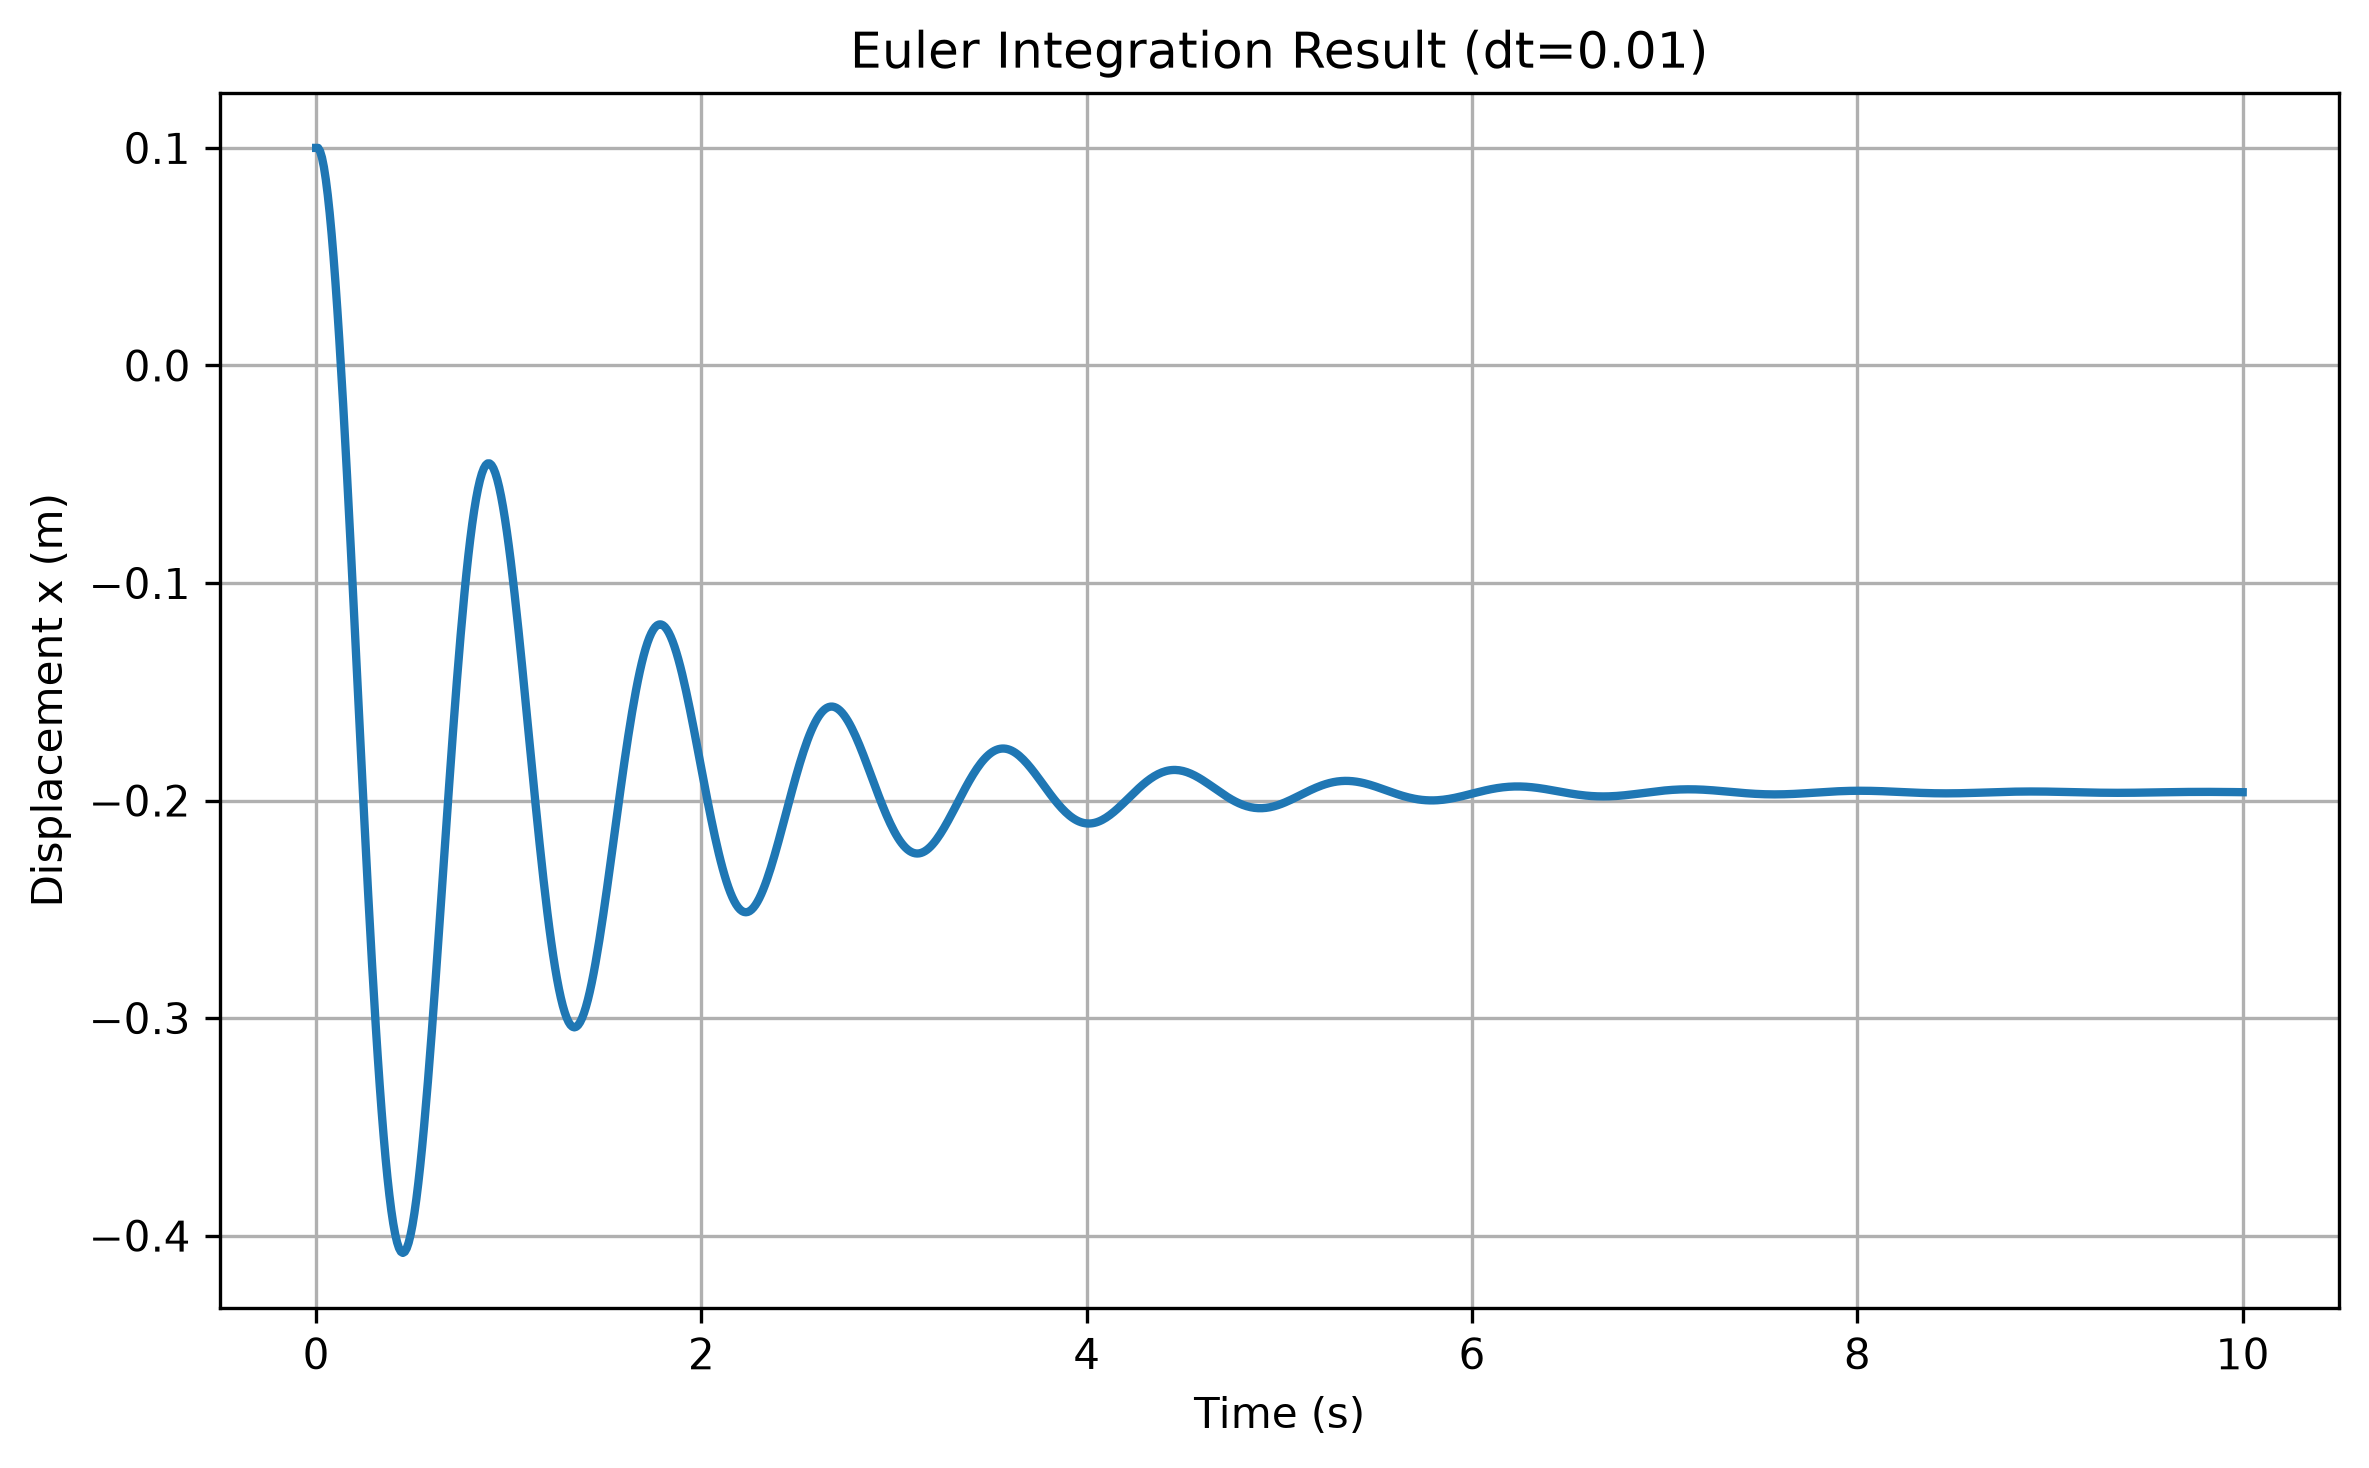
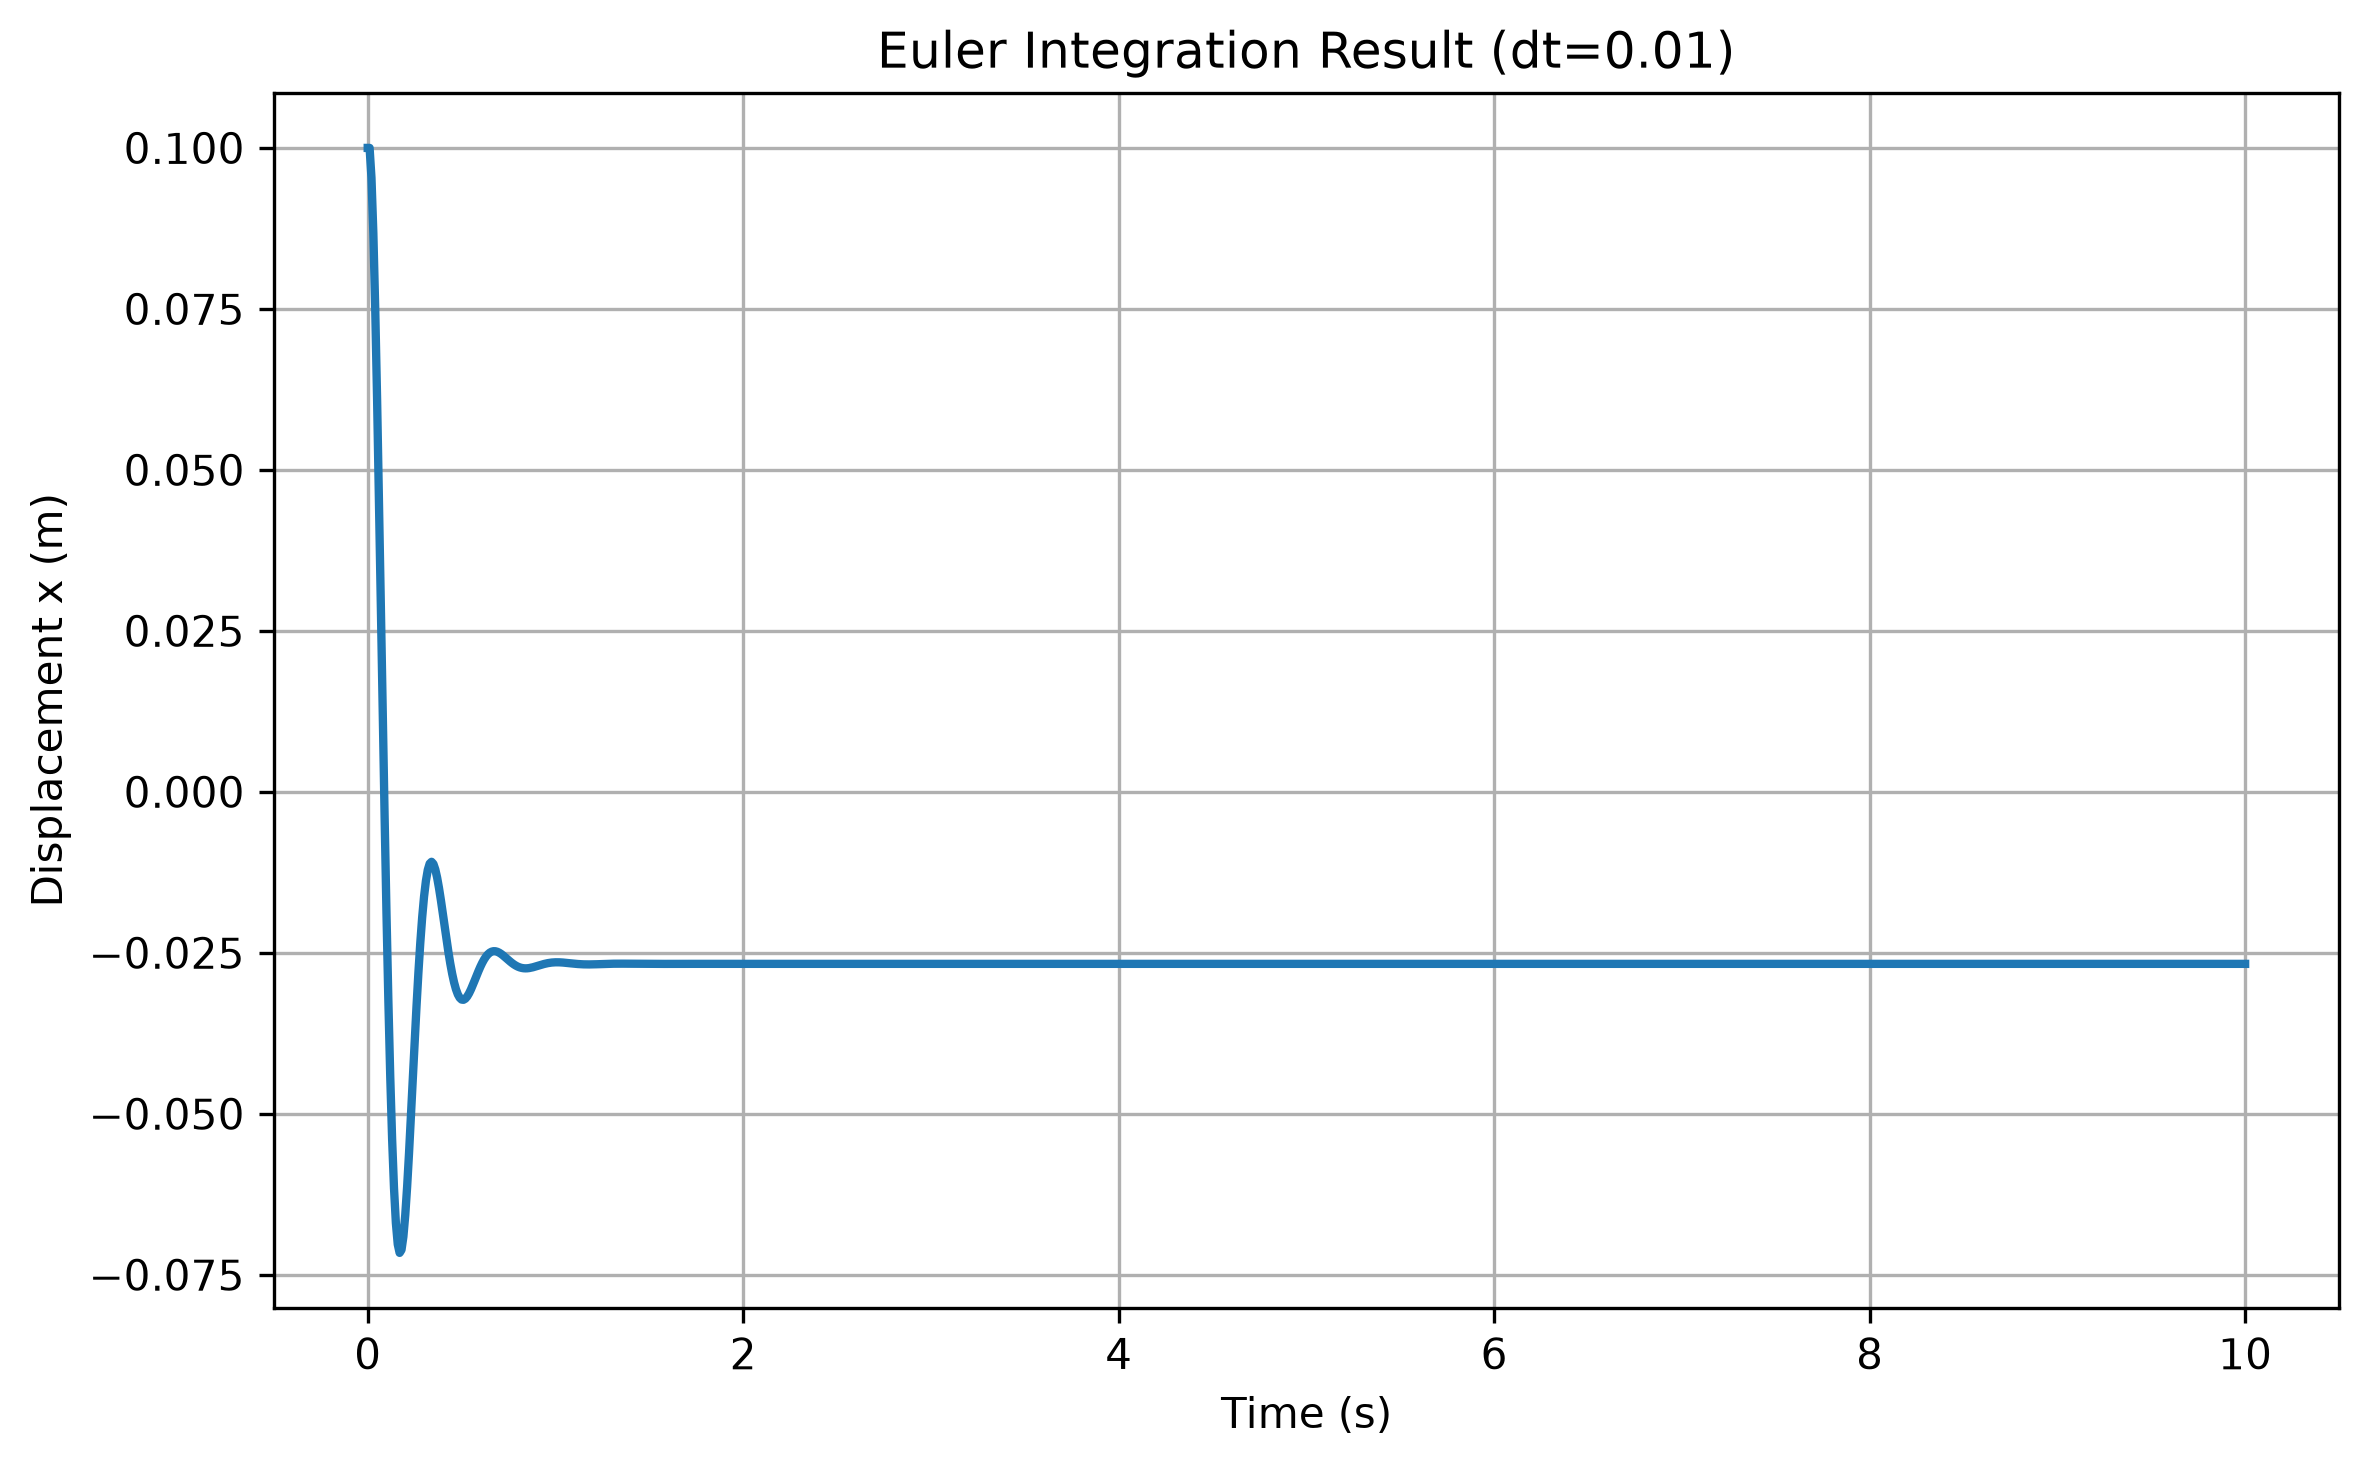
finish damping

diff --git a/open/damping/damping_ode/damping_ode.py b/open/damping/damping_ode/damping_ode.py
@@ -1,25 +1,28 @@
 import numpy as np
 import matplotlib.pyplot as plt
-from scipy.integrate import solve_ivp
 from pathlib import Path
+import sys
 
+sys.path.append(str(Path(__file__).resolve().parent.parent.parent))
 
+from load_data import ParameterLoader
+
+param = ParameterLoader().load("data.xlsx")
+
+from scipy.integrate import solve_ivp
 
 # ==========================================
 # Parameters
 # ==========================================
-
-m = 1.0       # mass
-
-k = 4.0       # spring stiffness
 
 # damping coefficient
 # underdamped: c < 2*sqrt(m*k)
 # critical:    c = 2*sqrt(m*k)
 # overdamped:  c > 2*sqrt(m*k)
 
-c = 1.0
-
+m = param.ms/4        # mass (kg)
+k = param.Kr       # spring stiffness (N/m)
+c = param.cr        # damping coefficient (N*s/m)
 
 
 # ==========================================
@@ -34,8 +37,6 @@ wn = np.sqrt(
 zeta = c / (
     2 * np.sqrt(m*k)
 )
-
-
 
 # ==========================================
 # ODE function
@@ -62,8 +63,6 @@ def damped_oscillator(t, y):
         dvdt
     ]
 
-
-
 # ==========================================
 # Simulation setup
 # ==========================================
@@ -78,7 +77,6 @@ y0 = [
     1,     # initial displacement
     0      # initial velocity
 ]
-
 
 # ==========================================
 # Solve ODE45 equivalent

diff --git a/open/damping/quarter_suspension/quarter_suspension.py b/open/damping/quarter_suspension/quarter_suspension.py
@@ -1,7 +1,15 @@
 import numpy as np
 import matplotlib.pyplot as plt
-from scipy.integrate import solve_ivp
 from pathlib import Path
+import sys
+
+sys.path.append(str(Path(__file__).resolve().parent.parent.parent))
+
+from load_data import ParameterLoader
+
+param = ParameterLoader().load("data.xlsx")
+
+from scipy.integrate import solve_ivp
 
 
 
@@ -82,14 +90,14 @@ def quarter_car_damped_ode(
 # Parameters
 # ==========================================
 
-ms = 250 / 4       # sprung mass kg
+ms = param.ms / 4       # sprung mass kg
 
-mu = 40            # unsprung mass kg
+mu = param.mu            # unsprung mass kg
 
 
-ks = 40000         # suspension stiffness N/m
+ks = param.Ks         # suspension stiffness N/m
 
-kt = 180000        # tire stiffness N/m
+kt = param.Kt        # tire stiffness N/m
 
 
 
@@ -97,7 +105,7 @@ kt = 180000        # tire stiffness N/m
 # Damping ratio
 # ==========================================
 
-zeta = 0.6
+zeta = param.zeta
 
 
 cc = 2 * np.sqrt(

diff --git a/open/damping/Damped_oscillation_analysis/Damped_oscillation_analysis.py b/open/damping/Damped_oscillation_analysis/Damped_oscillation_analysis.py
@@ -1,7 +1,15 @@
 import numpy as np
 import matplotlib.pyplot as plt
-from scipy.integrate import solve_ivp
 from pathlib import Path
+import sys
+
+sys.path.append(str(Path(__file__).resolve().parent.parent.parent))
+
+from load_data import ParameterLoader
+
+param = ParameterLoader().load("data.xlsx")
+
+from scipy.integrate import solve_ivp
 
 
 
@@ -67,14 +75,14 @@ def quarter_car_damped_ode(
 # Parameters
 # ==========================================
 
-ms = 310 / 4      # sprung mass (kg)
+ms = param.ms / 4      # sprung mass (kg)
 
-mu = 40           # unsprung mass (kg)
+mu = param.mu           # unsprung mass (kg)
 
 
-ks = 40000        # suspension stiffness (N/m)
+ks = param.Ks        # suspension stiffness (N/m)
 
-kt = 180000       # tire stiffness (N/m)
+kt = param.Kt       # tire stiffness (N/m)
 
 
 g = 9.81

diff --git a/open/damping/quarter_suspension_int/quarter_suspension_int.py b/open/damping/quarter_suspension_int/quarter_suspension_int.py
@@ -1,6 +1,15 @@
 import numpy as np
 import matplotlib.pyplot as plt
 from pathlib import Path
+import sys
+
+sys.path.append(str(Path(__file__).resolve().parent.parent.parent))
+
+from load_data import ParameterLoader
+
+param = ParameterLoader().load("data.xlsx")
+
+from scipy.integrate import solve_ivp
 
 
 
@@ -13,12 +22,12 @@ g = 9.81
 
 # Sprung mass
 
-ms = 310 / 4
+ms = param.ms / 4
 
 
 # Unsprung mass
 
-mu = 15 - 4
+mu = param.mu
 
 
 
@@ -26,11 +35,11 @@ mu = 15 - 4
 # Suspension parameters
 # ==========================================
 
-ks = 70000       # spring stiffness
+ks = param.Ks       # spring stiffness
 
-kt = 99000       # tire stiffness
+kt = param.Kt       # tire stiffness
 
-c = 4000         # damping
+c = param.cr         # damping
 
 
 

diff --git a/open/damping/damping_int/damping_int.py b/open/damping/damping_int/damping_int.py
@@ -1,15 +1,23 @@
 import numpy as np
 import matplotlib.pyplot as plt
 from pathlib import Path
+import sys
 
+sys.path.append(str(Path(__file__).resolve().parent.parent.parent))
+
+from load_data import ParameterLoader
+
+param = ParameterLoader().load("data.xlsx")
+
+from scipy.integrate import solve_ivp
 
 # ==========================================
 # Parameter setting
 # ==========================================
 
-m = 1.0        # mass (kg)
-k = 50.0       # spring stiffness (N/m)
-c = 2.0        # damping coefficient (N*s/m)
+m = param.ms/4        # mass (kg)
+k = param.Kr       # spring stiffness (N/m)
+c = param.cr        # damping coefficient (N*s/m)
 g = 9.81       # gravity (m/s^2)
 
 

diff --git a/README.md b/README.md
@@ -7,19 +7,21 @@
 
 頁面書寫規定 : [介紹頁面規定](md_rules/Introduction_writing_rules.md) , [TOC頁面規定](md_rules/TOC_writing_rules.md)
 
-## 懸吊
+## 懸吊與轉向動態
 
 [負載轉移](open/Load_transfer/load_transfer.md) : 4輪負載分析
 
-[懸吊剛性](open/Stiffness/Stiffness.md) : 懸吊剛性分析
 
-[阻尼評估]() : 還沒好，等我一下
 
 [懸吊動態](open/Dynamic/Dynamic.md) : 懸吊動態模型評估
 
-## 轉向
-
 [轉向分析](open/steering/steering.md) : 一些轉向小分析
+
+## 懸吊分析
+
+[懸吊剛性](open/Stiffness/Stiffness.md) : 懸吊剛性分析
+
+[阻尼評估](open/damping/damping.md) : 阻尼分析
 
 ## 煞車與傳動加速
 

diff --git a/open/damping/quarter_suspension_int/quarter_suspension_int.md b/open/damping/quarter_suspension_int/quarter_suspension_int.md
@@ -74,6 +74,7 @@ $$z_{i+1} = z_i + v_{i+1}\Delta t$$
 
 ## 結果
 
-程式會輸出簧上位置與簧上加速度隨時間變化，並計算最大簧上位置與最大簧上加速度。若執行程式產生 `quarter_car_euler_response.png`，建議將該圖放在本資料夾並於此段落加入置中圖片。
 
-此結果可用於觀察顯式 Euler 方法下的懸吊暫態反應，並與 ODE solver 版本比較數值穩定性與響應差異。
+<div style="text-align: center;">
+<img src="quarter_car_euler_response.png" alt="quarter_car_euler_response" width="800">
+</div>
